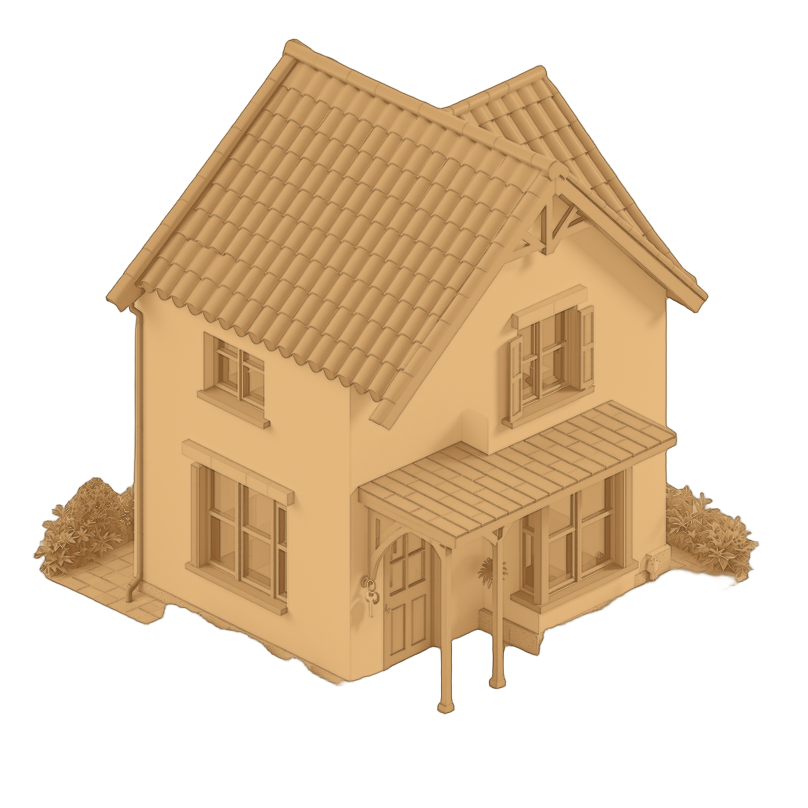
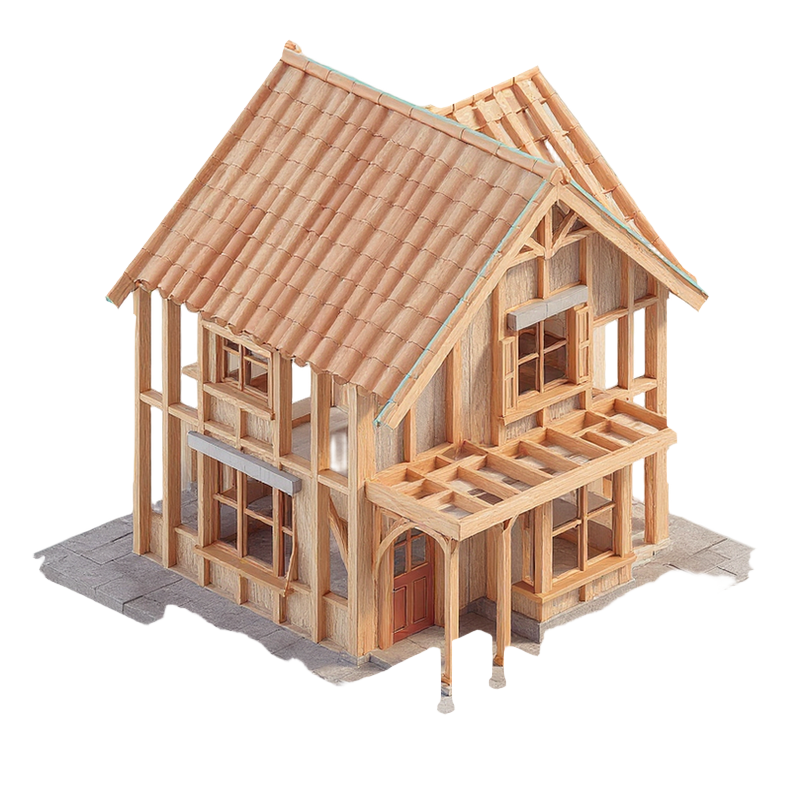
Real timber framing in the Blueprint hero; milestone roof clears title (r5)
- Frame layer is the real stage_3 stud render again, registered onto the
  built master (non-uniform scale + shift maximising silhouette IoU,
  plinth and bushes excluded) and clipped to the master's alpha:
  filled-silhouette IoU 0.974 vs master (lines 0.984).
- Frame leads the plaster by about a storey, so the 212h hero shows
  studs, top plate and window openings under the cyan roof linework.
- Milestone roof drop shortened to 34 pt with clearance under the title.

diff --git a/DesignSandbox/BlueprintScreens.swift b/DesignSandbox/BlueprintScreens.swift
@@ -177,7 +177,7 @@ struct HouseTypeThumb: View {
 struct BlueprintMilestone: View {
     @Environment(\.accessibilityReduceMotion) private var reduce
     @Environment(\.dismiss) private var dismiss
-    @State private var roofDrop: CGFloat = -60
+    @State private var roofDrop: CGFloat = -34
     @State private var roofFill = 0.0
     @State private var plaque = false
     @State private var landed = 0
@@ -203,6 +203,8 @@ struct BlueprintMilestone: View {
                     .font(.system(size: 34, weight: .bold, design: .rounded))
                     .foregroundStyle(.white)
                     .padding(.top, 20)
+                    .padding(.bottom, 26)       // the roof's drop path (34 pt) stays clear of the title
+                    .zIndex(1)
 
                 ZStack(alignment: .bottomTrailing) {
                     BlueprintHouse(hours: 500, roofDrop: roofDrop, roofFill: roofFill, showScale: false)

diff --git a/DesignSandbox/BlueprintHouse.swift b/DesignSandbox/BlueprintHouse.swift
@@ -51,7 +51,7 @@ struct BlueprintHouse: View {
                         .mask(FeatherMask(y: hy, feather: 0.015))
                 }
                 if hours > 100 && hours < 500 {
-                    frame.mask(FeatherMask(y: max(BlueprintHouse.eave, by - 0.09), feather: 0.035))
+                    frame.mask(FeatherMask(y: max(BlueprintHouse.eave, by - 0.21), feather: 0.03))
                         .mask(TopCut(y: BlueprintHouse.eave))
                 }
                 built.mask(FeatherMask(y: by, feather: 0.028))

diff --git a/scripts/design-sandbox/import_art_r3.py b/scripts/design-sandbox/import_art_r3.py
@@ -115,14 +115,63 @@ def derive_from_master():
     rgba[..., 3] = line_a * 255
     Image.fromarray(rgba.astype(np.uint8)).save(os.path.join(DST, 'bp-house-lines.png'), optimize=True)
 
-    # Frame: the same house in raw timber (sheathing going up), darker grain on the edges.
-    t = np.clip(lum / np.maximum(alpha, 1e-3) / 255, 0, 1)
-    lo, hi = np.array([0x8A, 0x5A, 0x2C], float), np.array([0xF2, 0xC6, 0x8A], float)
-    wood = lo + (hi - lo) * t[..., None]
-    wood = wood * (1 - 0.35 * np.clip(e, 0, 1)[..., None])
-    fr = np.dstack([np.clip(wood, 0, 255), a[..., 3]])
-    Image.fromarray(fr.astype(np.uint8)).save(os.path.join(DST, 'bp-house-frame.png'), optimize=True)
-    print('lines + frame derived from the built master')
+    frame_onto_master(built)
+    print('lines derived from the built master; frame registered + clipped to it')
+
+
+def frame_onto_master(built, N=180):
+    """Register the real timber-frame render (studs, plates, openings) onto the built master with a
+    non-uniform scale + shift that maximises silhouette IoU (plinth stone and bushes excluded), then
+    clip it to the master's alpha so its outline is the master's outline."""
+    fr_src = os.path.join(DST, 'bp-house-frame.png')        # shared-box crop of the matted stage_3 render
+    F = Image.open(fr_src).convert('RGBA')
+    B = built
+    def body(img, kind):
+        x = np.asarray(img.resize((N, N), Image.LANCZOS)).astype(int)
+        r, g, b, al = x[..., 0], x[..., 1], x[..., 2], x[..., 3]
+        sat = np.max(x[..., :3], axis=2) - np.min(x[..., :3], axis=2)
+        m = al > 128
+        if kind == 'frame':
+            m &= ~((sat < 28) & (r < 215))                   # grey stone plinth
+        else:
+            m &= ~((g > r + 10) & (g > b + 10))              # bushes
+        return m
+    fb, bb = body(F, 'frame'), body(B, 'built')
+
+    def warp(mask_or_img, sx, sy, dx, dy, n, nearest=True):
+        im = mask_or_img if isinstance(mask_or_img, Image.Image) else Image.fromarray((mask_or_img * 255).astype(np.uint8))
+        w, h = int(n * sx), int(n * sy)
+        im = im.resize((max(1, w), max(1, h)), Image.NEAREST if nearest else Image.LANCZOS)
+        out = Image.new(im.mode, (n, n), 0)
+        out.paste(im, (int(round((n - w) / 2 + dx)), int(round((n - h) / 2 + dy))))
+        return out
+
+    def iou(m):
+        return (m & bb).sum() / max(1, (m | bb).sum())
+
+    best = (0, (1, 1, 0, 0))
+    for sx in np.arange(0.86, 1.141, 0.02):
+        for sy in np.arange(0.86, 1.141, 0.02):
+            for dy in range(-20, 21, 2):
+                for dx in range(-20, 21, 2):
+                    v = iou(np.asarray(warp(fb, sx, sy, dx, dy, N)) > 127)
+                    if v > best[0]:
+                        best = (v, (sx, sy, dx, dy))
+    sx0, sy0, dx0, dy0 = best[1]
+    for sx in np.arange(sx0 - 0.02, sx0 + 0.021, 0.005):
+        for sy in np.arange(sy0 - 0.02, sy0 + 0.021, 0.005):
+            for dy in range(dy0 - 2, dy0 + 3):
+                for dx in range(dx0 - 2, dx0 + 3):
+                    v = iou(np.asarray(warp(fb, sx, sy, dx, dy, N)) > 127)
+                    if v > best[0]:
+                        best = (v, (sx, sy, dx, dy))
+    sx, sy, dx, dy = best[1]
+    full = F.size[0]
+    Fw = warp(F, sx, sy, dx * full / N, dy * full / N, full, nearest=False)
+    arr = np.asarray(Fw).astype(float)
+    arr[..., 3] = np.minimum(arr[..., 3], np.asarray(B.getchannel('A')).astype(float))   # master outline wins
+    Image.fromarray(arr.astype(np.uint8)).save(fr_src, optimize=True)
+    print(f'frame registered: body IoU {best[0]:.3f} (sx {sx:.3f}, sy {sy:.3f}, dx {dx * full / N:.0f}, dy {dy * full / N:.0f} px)')
 
 
 def crop_to(im, box, size):

diff --git a/scripts/design-sandbox/house_iou.py b/scripts/design-sandbox/house_iou.py
@@ -47,7 +47,7 @@ def iou(a, b):
 
 built = normalise(silhouette('bp-house-built'))
 res = {}
-for name, fill in [('bp-house-lines', True), ('bp-house-frame', False)]:
+for name, fill in [('bp-house-lines', True), ('bp-house-frame', True)]:
     if os.path.exists(os.path.join(ART, name + '.png')):
         res[name] = iou(built, normalise(silhouette(name, fill)))
 for k, v in res.items():
